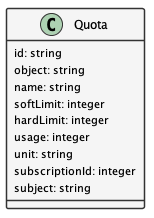
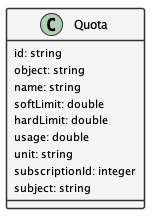
Update the quotas REST API to include usage changes.

Changed region(s): [[0.4156, 0.4404, 0.7013, 0.578], [0.3377, 0.6055, 0.5974, 0.6606]]

diff --git a/membership-plan-management.rst b/membership-plan-management.rst
@@ -317,7 +317,7 @@ Quota REST endpoints:
     Quota     = updateQuota():  PUT     /quotas/:id
     boolean   = deleteQuota():  DELETE  /quotas/:id
     UsageList = listUsages():   GET     /quotas/:name/usage?subject=:subject
-    boolean   = isActive():     GET     /quotas/:name/usage?instanceId=:instanceId
+    Usage     = getUsage():     GET     /quotas/:name/usage?instanceId=:instanceId
     Quota     = hasRemaining(): GET     /quotas/:name/usage/remaining?\              
                                             subject=:subject&\
                                             submitterSubject=:submitterSubject&\
@@ -333,9 +333,9 @@ Quota REST endpoints:
         id: string
         object: string
         name: string
-        softLimit: integer
-        hardLimit: integer
-        usage: integer
+        softLimit: double
+        hardLimit: double
+        usage: double
         unit: string
         subscriptionId: integer
         subject: string
@@ -393,8 +393,8 @@ Usages
         id: integer
         object: string
         quotaId: integer
-        instanceId: integer
-        quantity: integer
+        instanceId: string
+        quantity: double
         status: string
     }
     @enduml
